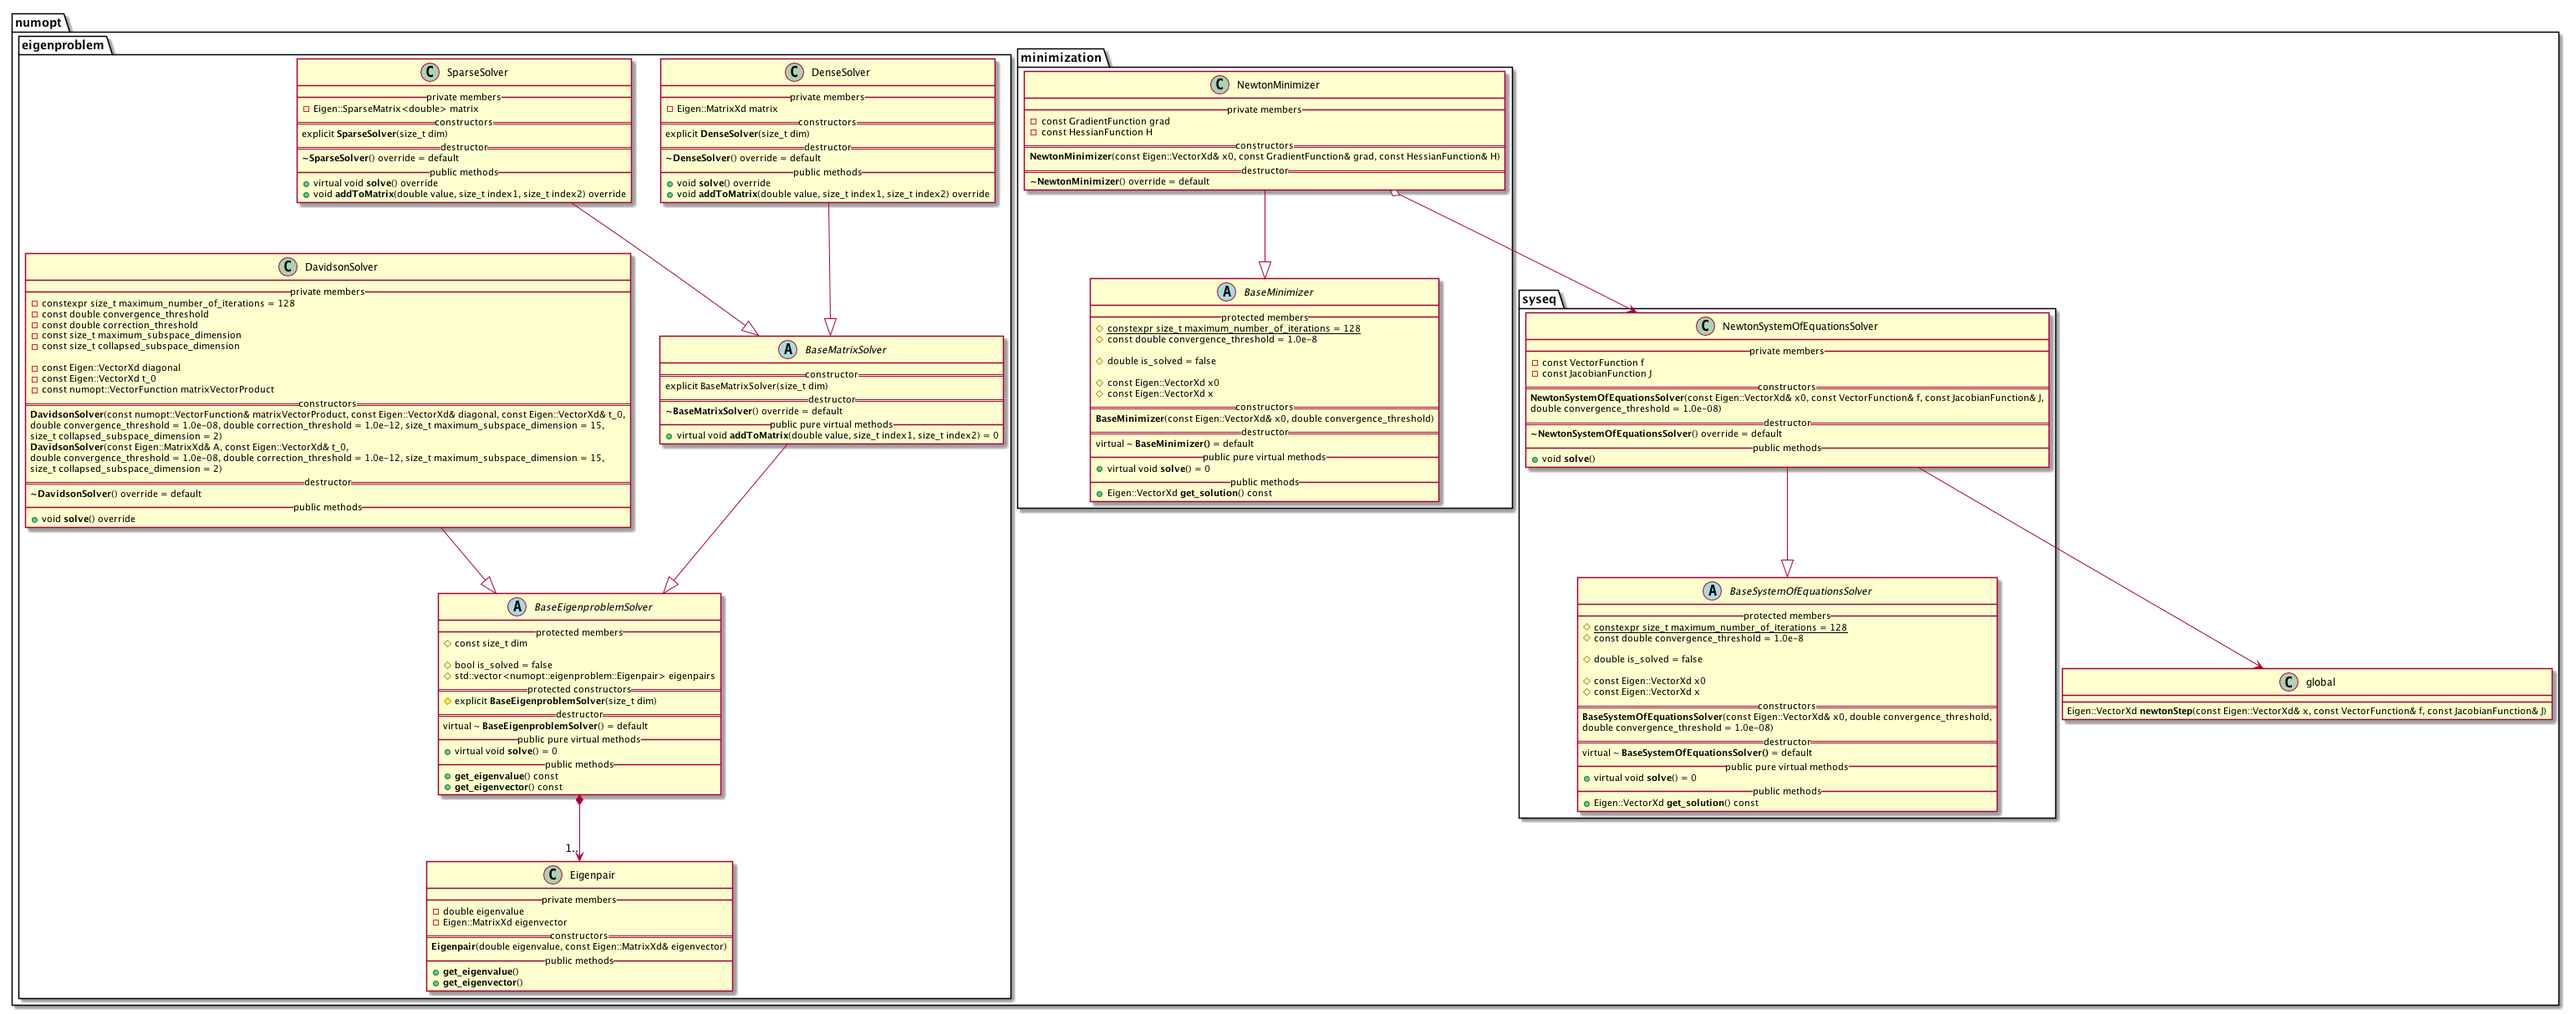
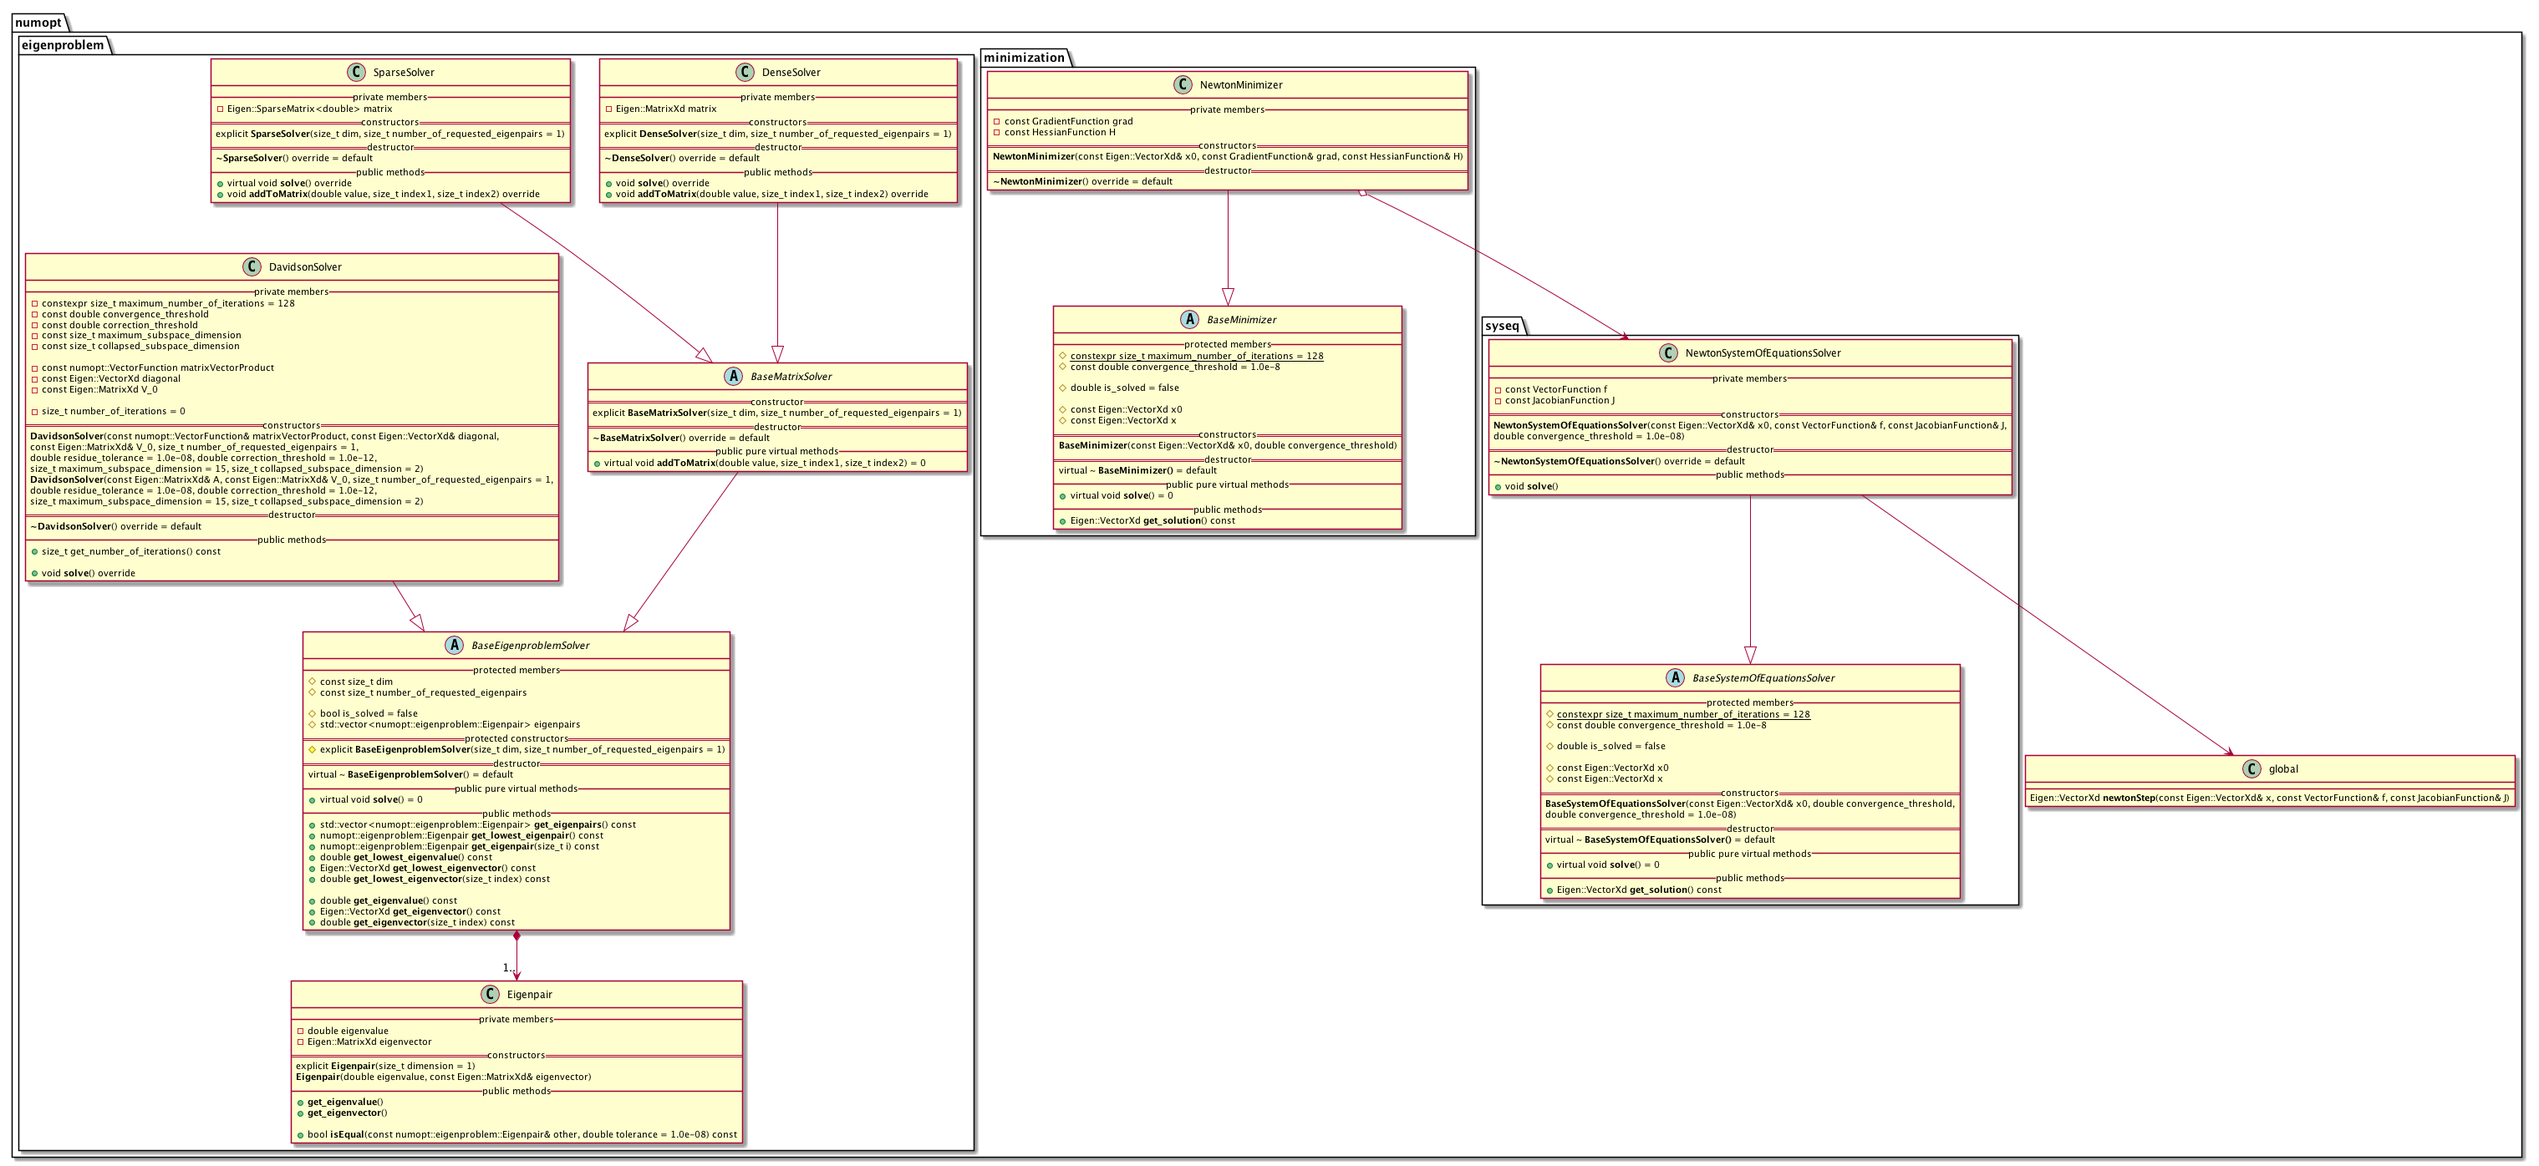
Update UML diagram.

Changed region(s): [[0.0, 0.0, 1.0, 1.0], [0.9901, 0.0305, 1.0, 0.061]]

diff --git a/include/DavidsonSolver.hpp b/include/DavidsonSolver.hpp
@@ -63,9 +63,9 @@ public:
     /**
      *  Constructor based on a given matrix @param A and a set of initial guesses @param V_0
      */
-    explicit DavidsonSolver(const Eigen::MatrixXd& A, const Eigen::MatrixXd& V_0, size_t number_of_requested_eigenpairs = 1,
-                            double residue_tolerance = 1.0e-08, double correction_threshold = 1.0e-12,
-                            size_t maximum_subspace_dimension = 15, size_t collapsed_subspace_dimension = 2);
+    DavidsonSolver(const Eigen::MatrixXd& A, const Eigen::MatrixXd& V_0, size_t number_of_requested_eigenpairs = 1,
+                   double residue_tolerance = 1.0e-08, double correction_threshold = 1.0e-12,
+                   size_t maximum_subspace_dimension = 15, size_t collapsed_subspace_dimension = 2);
 
 
     // DESTRUCTOR

diff --git a/include/BaseMatrixSolver.hpp b/include/BaseMatrixSolver.hpp
@@ -33,7 +33,7 @@ public:
     /**
      *   Constructor based on the dimension @param dim of the eigenvalue problem and the @param number_of_requested_eigenpairs
      */
-    BaseMatrixSolver(size_t dim, size_t number_of_requested_eigenpairs = 1);
+    explicit BaseMatrixSolver(size_t dim, size_t number_of_requested_eigenpairs = 1);
 
 
     // DESTRUCTOR

diff --git a/include/BaseEigenproblemSolver.hpp b/include/BaseEigenproblemSolver.hpp
@@ -46,7 +46,7 @@ protected:
     /**
      *  Protected constructor to initialize the const @member dim by @param dim
      */
-    BaseEigenproblemSolver(size_t dim, size_t number_of_requested_eigenpairs = 1);
+    explicit BaseEigenproblemSolver(size_t dim, size_t number_of_requested_eigenpairs = 1);
 
 
 public:
